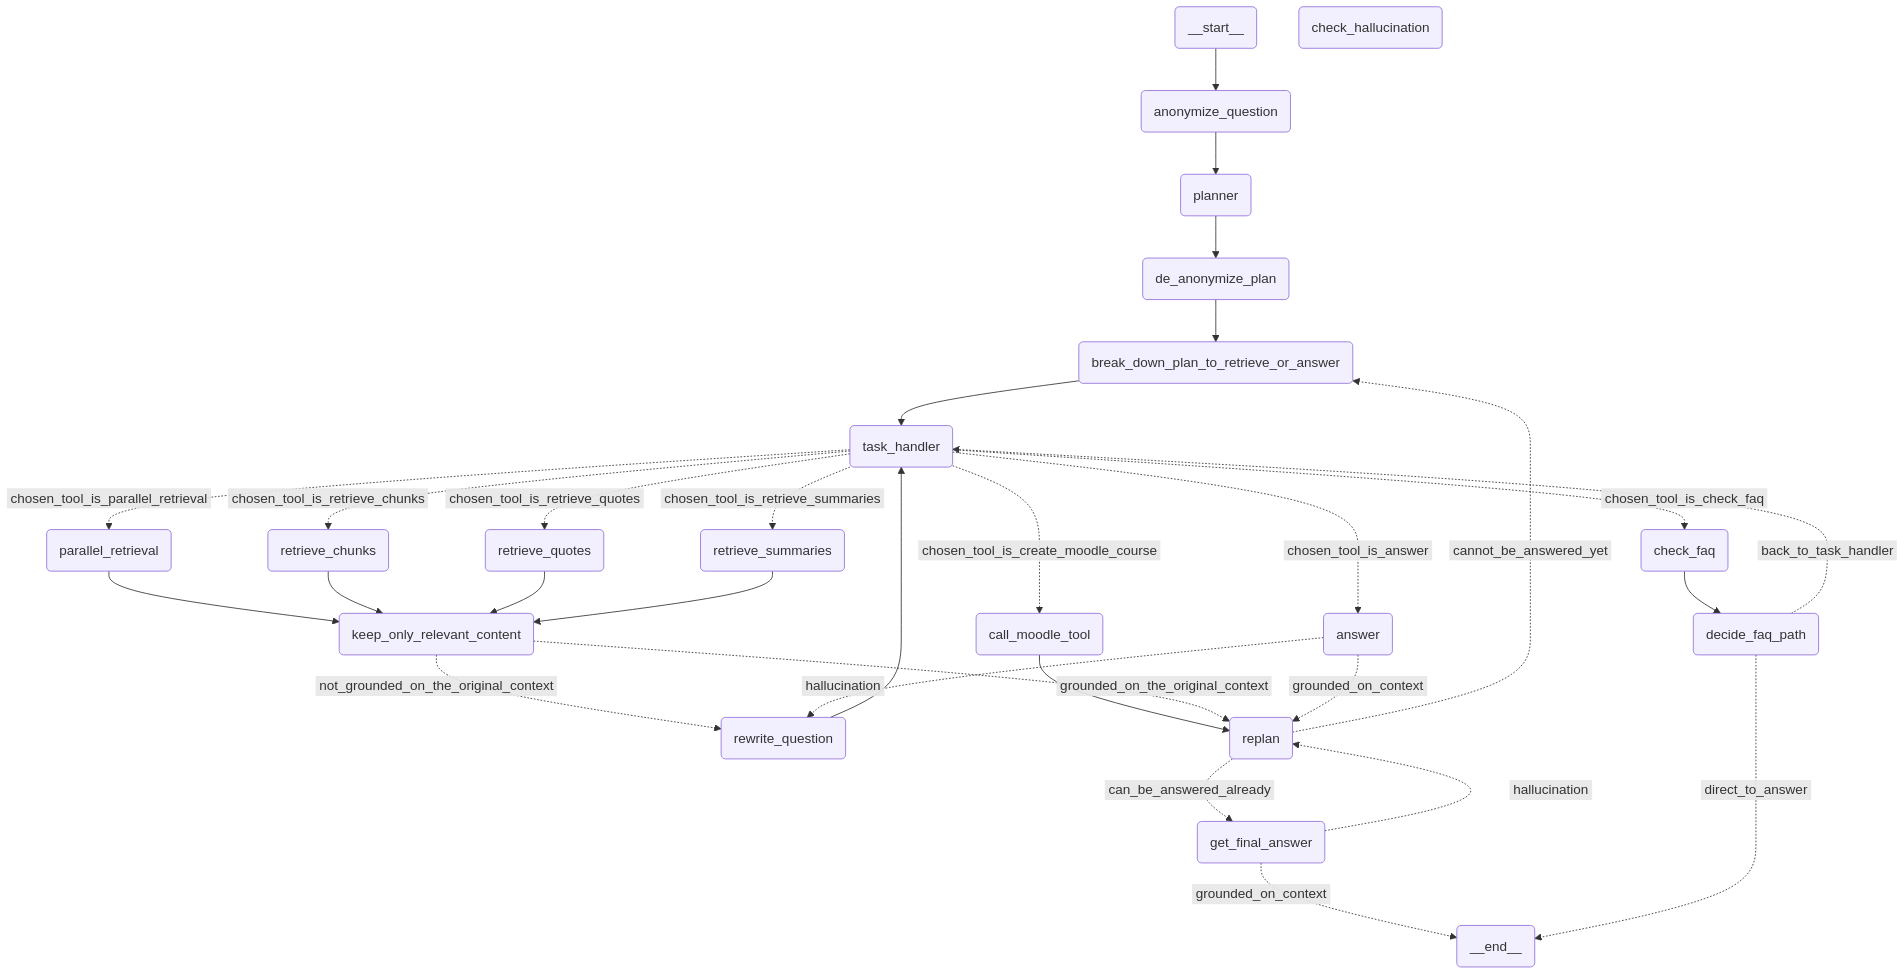
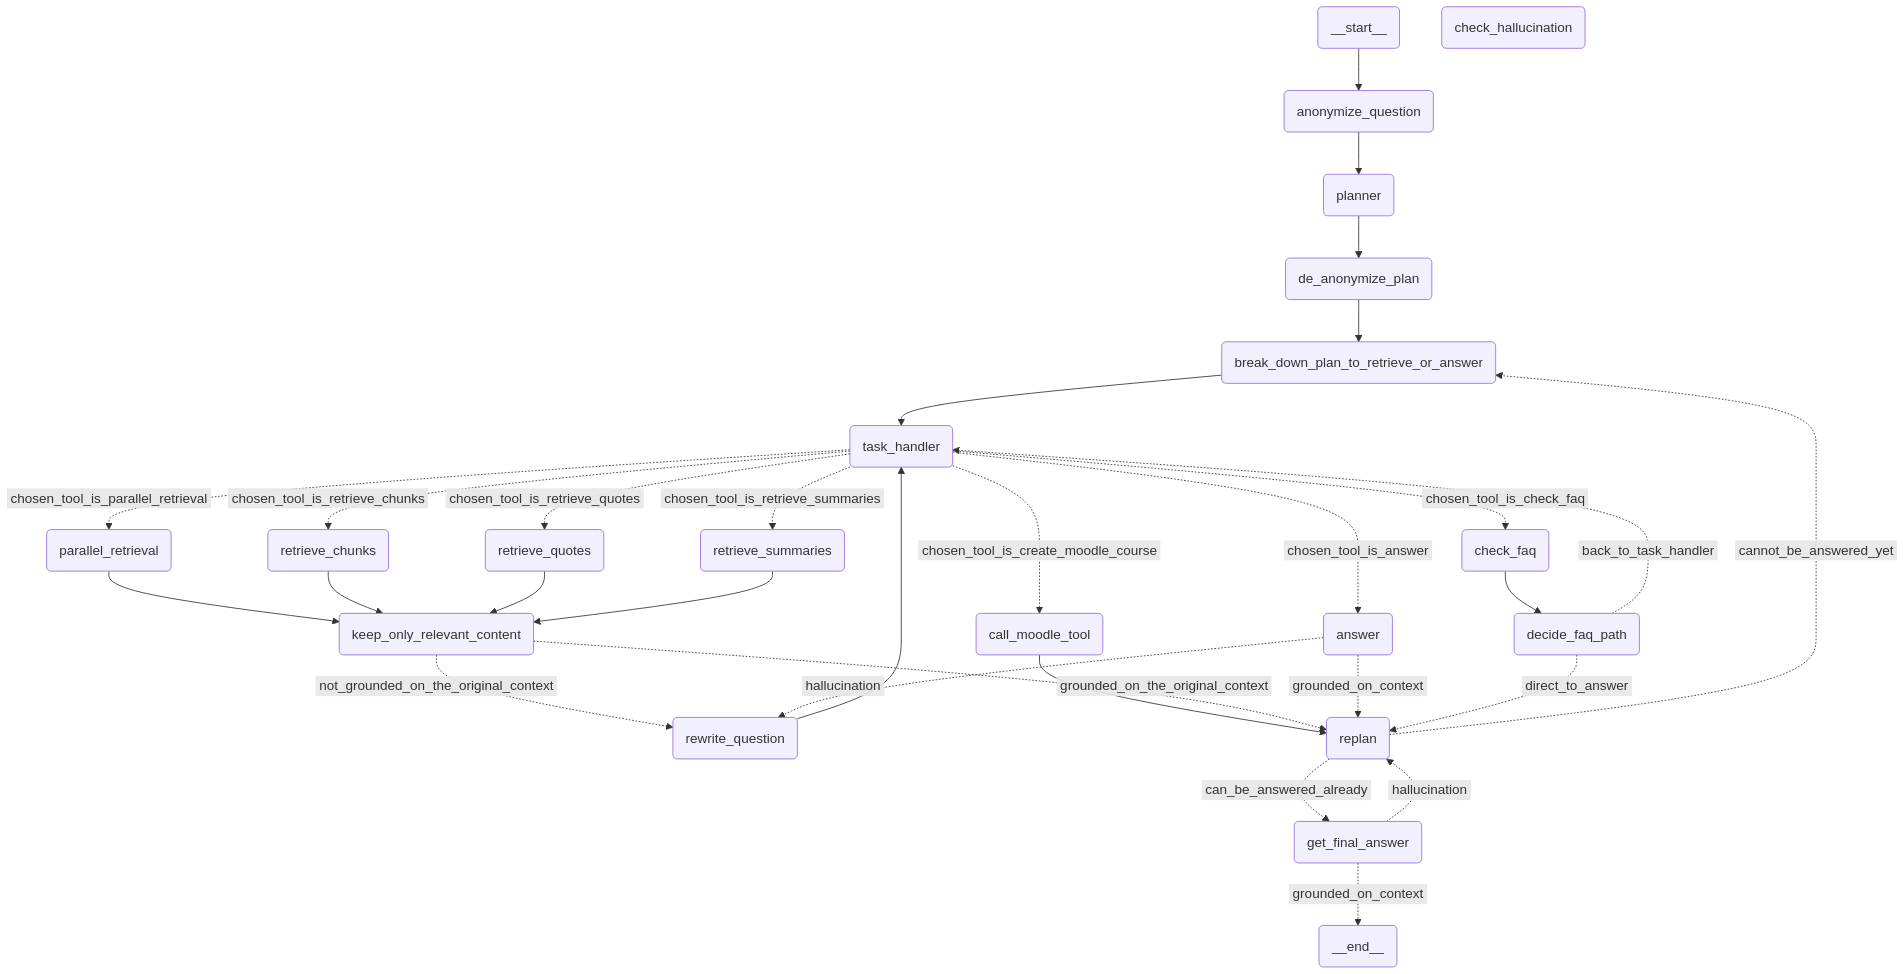
Verbessere Antwort-Generierung und Workflow-Routing
- Aktualisiere Prompt-Template für generische Support-Expertise
- Füge Quellenangaben und FAQ-Übernahme-Logik zum Antwort-Workflow hinzu
- Modifiziere Graph-Routing für flexiblere FAQ-Behandlung
- Erweitere Entscheidungslogik für Antwort-Pfade

diff --git a/agent/retriever.py b/agent/retriever.py
@@ -87,10 +87,9 @@ async def run_faq_check_workflow(state: PlanExecute):
                 await cl.Message(content="Da die Frage fast identisch zu einer bekannten FAQ ist, gebe ich direkt die Antwort.").send()
                 await cl.Message(content=best_faq.get("answer")).send()
                 state["response"] = best_faq.get("answer")
-
-                # Setze den Zustand auf direkte Antwort
-                state["direct_to_answer"] = True
+                #state["direct_to_answer"] = True
                 state["tool"] = "answer"
+                #TODO embedding similarity check answer and question
                 return state
             else:
                 # Bei moderater Ähnlichkeit, trotzdem in der Dokumentation suchen
@@ -159,10 +158,11 @@ async def run_qualitative_chunks_retrieval_workflow(state: PlanExecute):
         query_result = content_chunk_collection.query.hybrid(
             query=query,
             limit=5,
-            return_metadata=wvc.query.MetadataQuery(distance=True),
+            return_metadata=wvc.query.MetadataQuery(score=True),
             return_properties=["url", "content_chunk"]
         )
         
+        print(f"Query Result: {query_result}")
         docs = query_result.objects
         
         # Filter out empty content
@@ -224,10 +224,11 @@ async def run_qualitative_summaries_retrieval_workflow(state: PlanExecute):
         query_result = content_summary_collection.query.hybrid(
             query=query,
             limit=4,
-            return_metadata=wvc.query.MetadataQuery(distance=True),
+            return_metadata=wvc.query.MetadataQuery(score=True),
             return_properties=["url", "content_summary"]
         )
         
+        print(f"Query Result: {query_result}"   )
         docs = query_result.objects
         
         # Filter out empty content
@@ -289,10 +290,11 @@ async def run_qualitative_quotes_retrieval_workflow(state: PlanExecute):
         query_result = quote_collection.query.hybrid(
             query=query,
             limit=10,
-            return_metadata=wvc.query.MetadataQuery(distance=True),
+            return_metadata=wvc.query.MetadataQuery(score=True),
             return_properties=["url", "content", "source", "title"]
         )
         
+        print(f"Query Result: {query_result}")
         docs = query_result.objects
         
         # Filter out empty content and only include quotes or definitions

diff --git a/agent/answerer.py b/agent/answerer.py
@@ -127,7 +127,7 @@ async def run_qualtative_answer_workflow_for_final_answer(state: PlanExecute):
     final_answer_cot_prompt_template = """
     # Finale Antwort generieren
 
-    Du bist ein Experte für Moodle und sollst eine fundierte, präzise Antwort auf die Frage geben.
+    Du bist ein Experte im Bereich Support und sollst eine fundierte, präzise Antwort auf die Frage geben.
     
     Verwende den folgenden strukturierten Ansatz:
     
@@ -139,10 +139,10 @@ async def run_qualtative_answer_workflow_for_final_answer(state: PlanExecute):
     
     Bitte beantworte die folgende Frage, indem du zuerst deinen schrittweisen Denkprozess aufzeigst und dann eine endgültige Antwort formulierst.
     
-    WICHTIG: Erwähne NICHT, dass du diese Informationen "aus dem Kontext" hast. Formuliere die Antwort, als wärst du ein Moodle-Experte, der direkt antwortet.
-    
+    WICHTIG: Erwähne NICHT, dass du diese Informationen "aus dem Kontext" hast. Formuliere die Antwort, als wärst du ein Support-Experte, der direkt antwortet.
+    WICHTIG: Mögliche Quellen wie Links sollst du in der Antwort erwähnen.
     WICHTIG: Wenn die Frage nicht beantwortet werden kann, erkläre klar, warum nicht und was für Informationen fehlen.
-    
+    WICHTIG: Falls im Kontext nur Daten aus der FAQ vorhanden sind, übernehme die Antwort aus der FAQ.
     Kontext:
     {context}
     

diff --git a/agent/graph.py b/agent/graph.py
@@ -239,7 +239,7 @@ async def create_agent_graph():
         "decide_faq_path",
         lambda x: x["routing"],
         {
-            "direct_to_answer": END,
+            "direct_to_answer": "replan",
             "back_to_task_handler": "task_handler"
         }
     )
